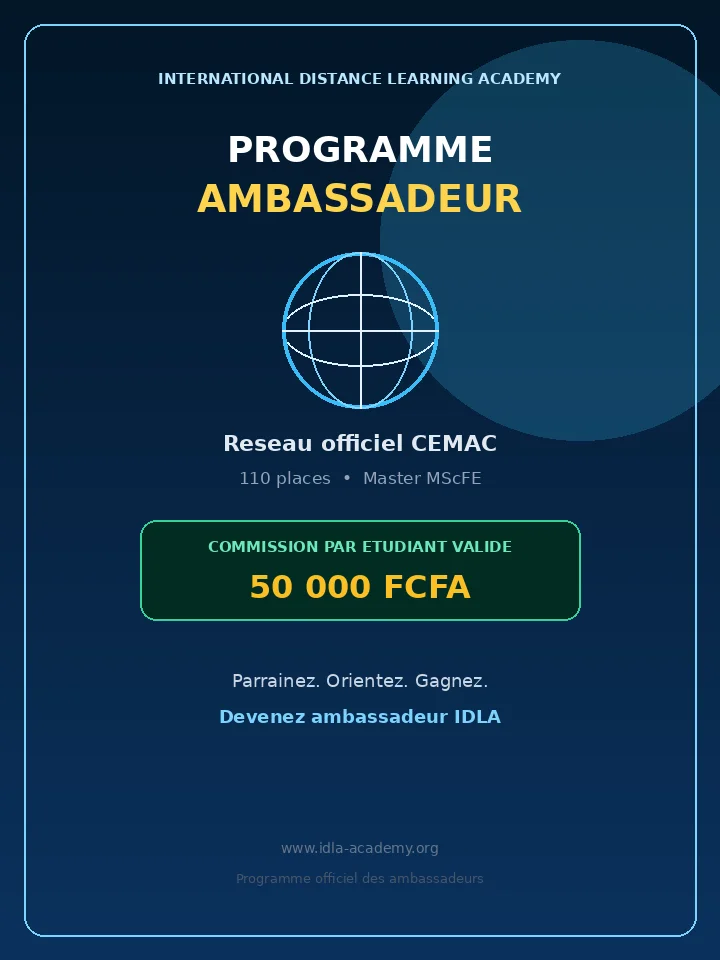
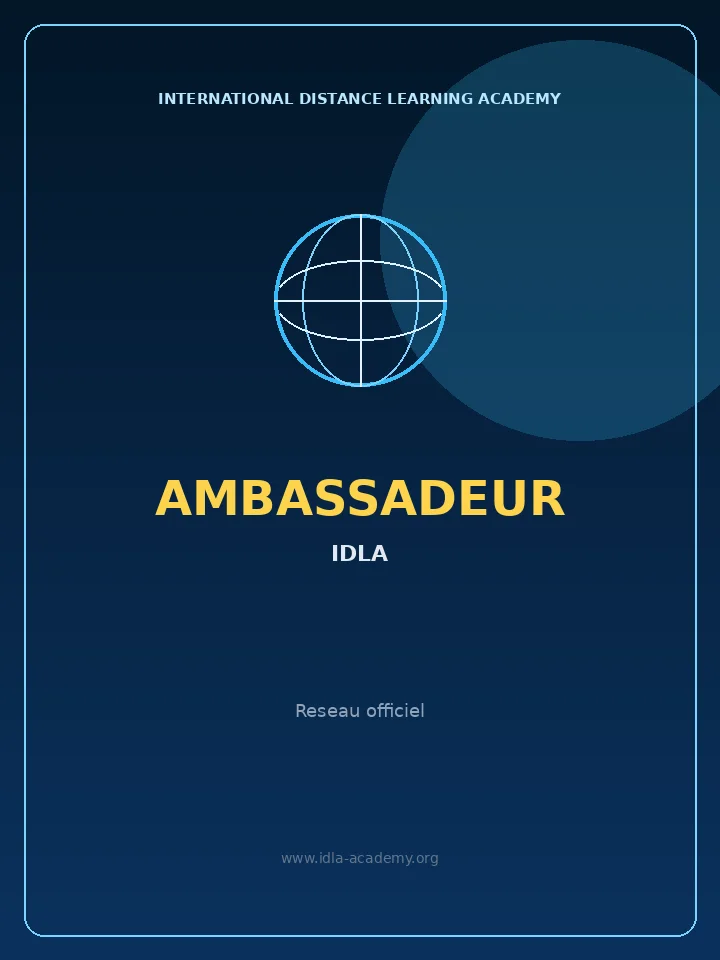
fix(ambassador): retirer le montant 50 000 FCFA du widget
Le flyer et le titre n’affichent plus que « Ambassadeur ».

diff --git a/src/components/AmbassadorAdBanner.tsx b/src/components/AmbassadorAdBanner.tsx
@@ -37,7 +37,7 @@ export const AmbassadorFloatingAdWidget: React.FC<AmbassadorFloatingAdWidgetProp
             <span className="relative inline-flex rounded-full h-2.5 w-2.5 bg-amber-400" />
           </span>
           <span className="text-xs font-black tracking-tight">
-            {isEn ? 'Ambassador Program' : 'Programme Ambassadeur'}
+            {isEn ? 'Ambassador' : 'Ambassadeur'}
           </span>
           <ChevronUp className="w-3.5 h-3.5 group-hover:-translate-y-0.5 transition-transform" />
         </button>
@@ -57,7 +57,7 @@ export const AmbassadorFloatingAdWidget: React.FC<AmbassadorFloatingAdWidgetProp
           <div className="flex items-center gap-1">
             <Gift className="w-3 h-3 text-amber-400" />
             <span className="uppercase tracking-wider font-extrabold text-[9.5px]">
-              {isEn ? 'Ambassador Program' : 'Programme Ambassadeur'}
+              {isEn ? 'Ambassador' : 'Ambassadeur'}
             </span>
           </div>
           <div className="flex items-center gap-0.5 text-slate-400">
@@ -88,7 +88,7 @@ export const AmbassadorFloatingAdWidget: React.FC<AmbassadorFloatingAdWidgetProp
           title={isEn ? 'Register as ambassador' : "S'inscrire comme ambassadeur"}
         >
           <img
-            src="/flyer_ambassadeur_idla.webp"
+            src="/flyer_ambassadeur_idla.webp?v=2"
             alt={isEn ? 'IDLA Ambassador Program' : 'Programme Ambassadeur IDLA'}
             className="w-full h-auto object-cover max-h-[290px]"
           />
